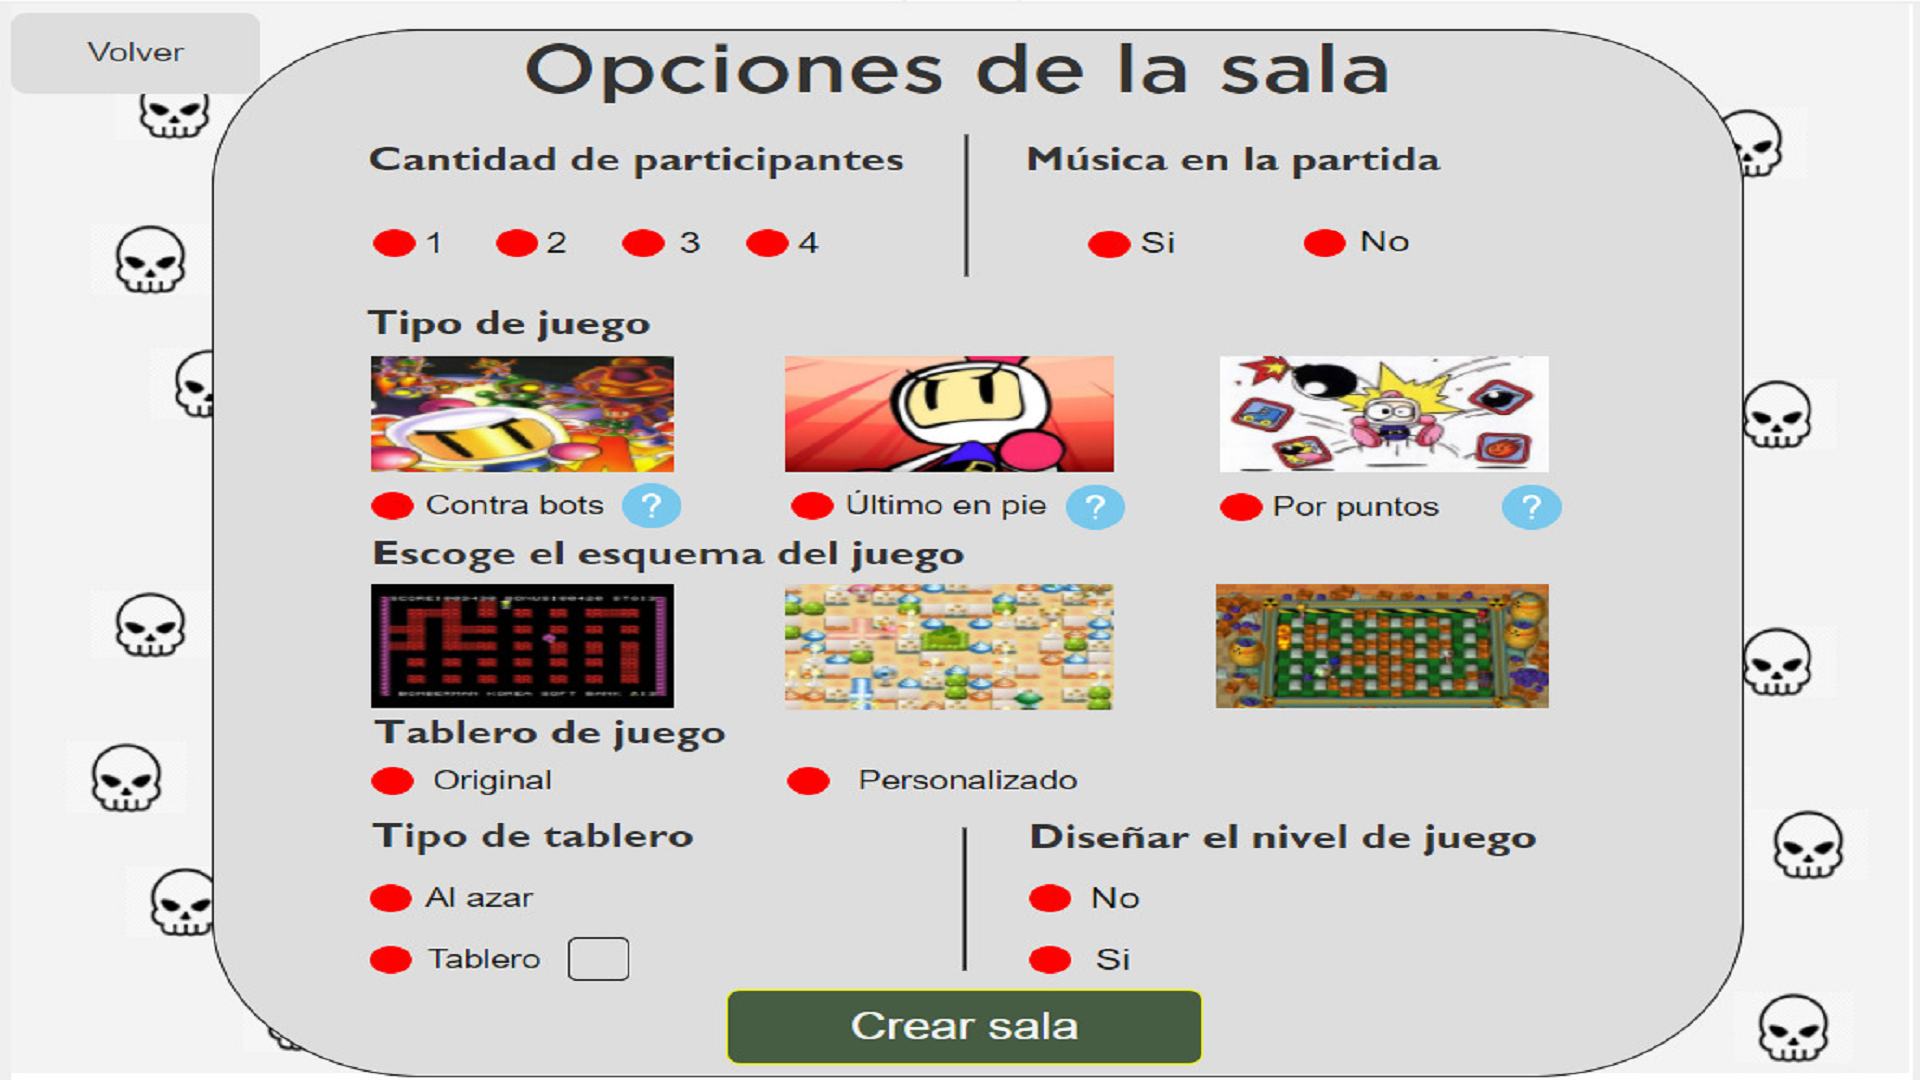
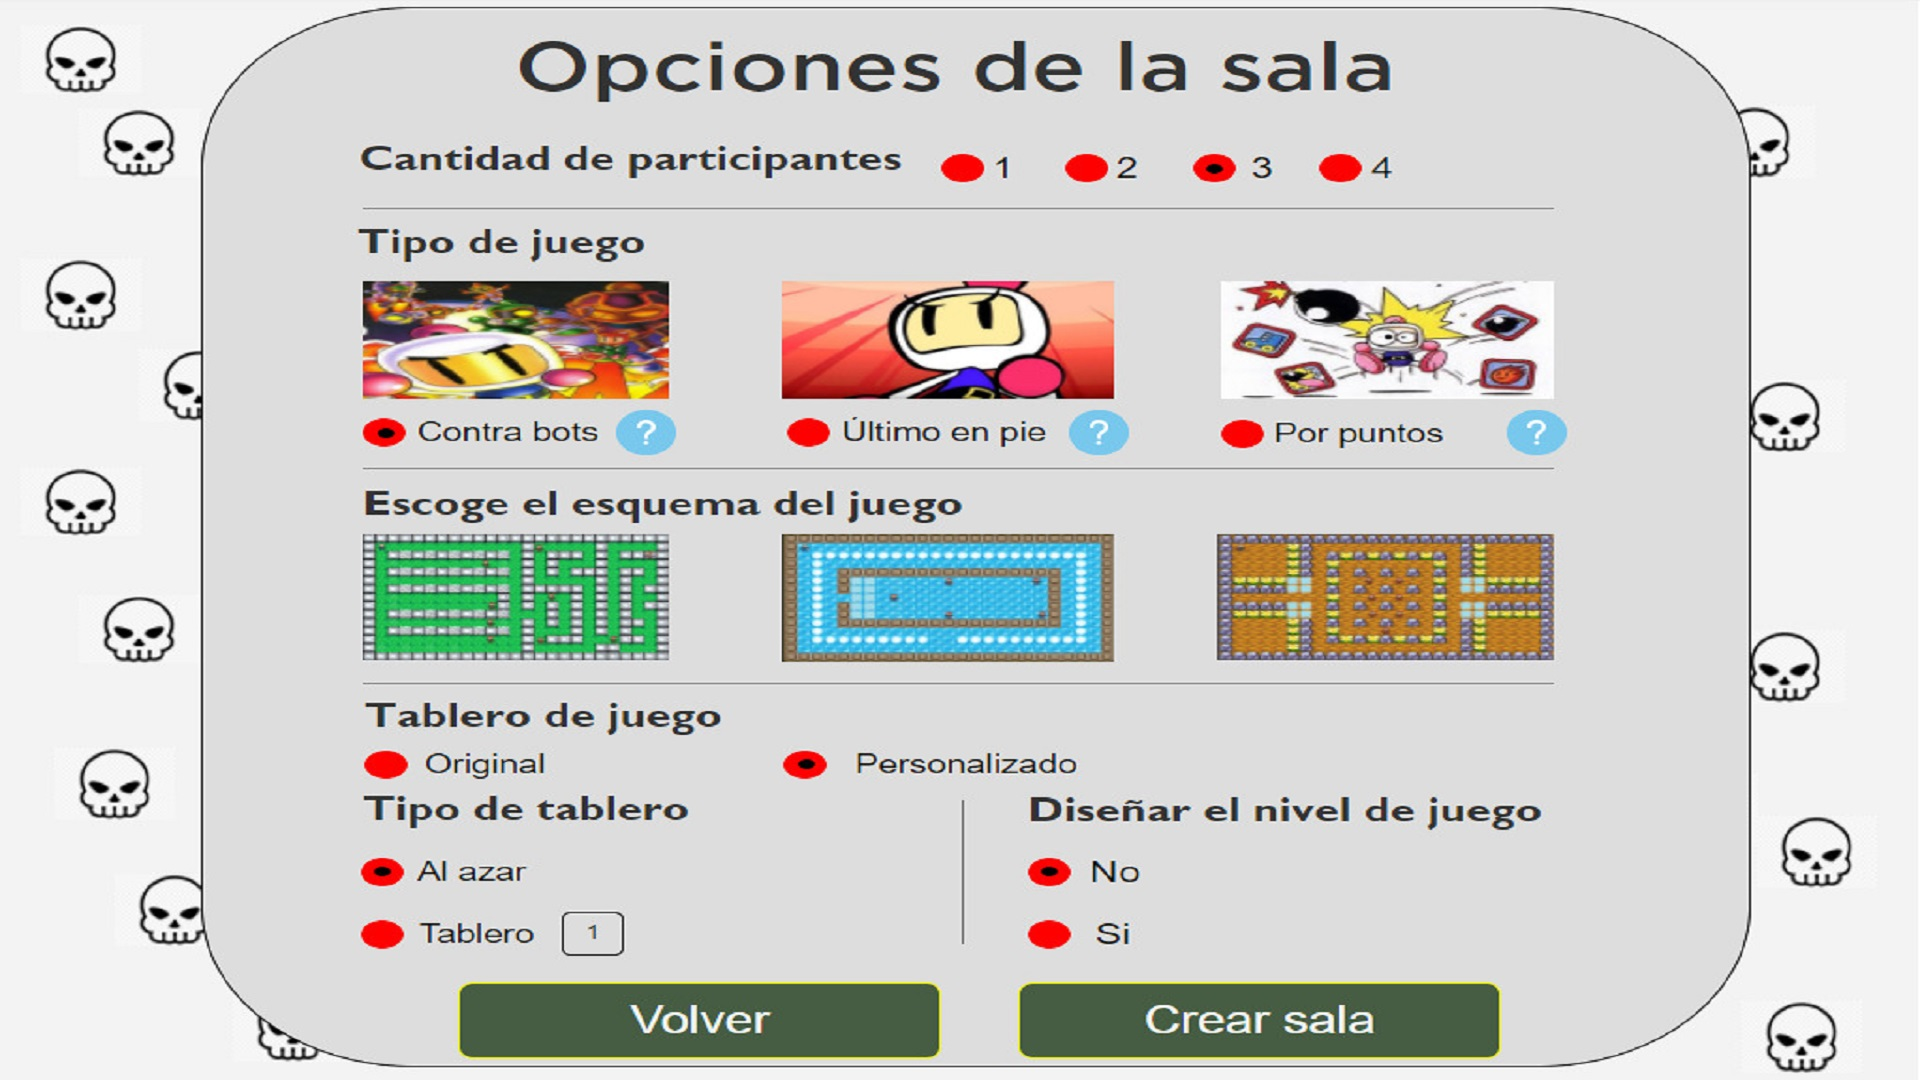
cambios en elementos de pantalla

diff --git a/Game/game.html b/Game/game.html
@@ -8587,10 +8587,10 @@ this.load.image('selectorRect2', 'https://i.ibb.co/98x1jx5/selector-Rect2.png');
 this.load.image('selectorRect3', 'https://i.ibb.co/WfGJs8t/selector-Rect3.png');
 this.load.image('selectorRect4', 'https://i.ibb.co/QjDxyxN/selector-Rect4.png');
 
-                 this.load.image('fondo', 'https://i.ibb.co/5FW9jBX/menu-Opciones.png');
-                 this.load.image('fondo2', 'https://i.ibb.co/mrpgNSH/menu-Opciones-Normal.png')
-                 this.load.image('fondo2mapa2', 'https://i.ibb.co/cNm3JKN/menu-Opciones-Normal2.png')
-                 this.load.image('fondo2mapa3', 'https://i.ibb.co/wQY7mW4/menu-Opciones-Normal3.png')
+                 this.load.image('fondo', 'https://i.ibb.co/FVxvVCz/Menu-Opciones.jpg');
+                 this.load.image('fondo2', 'https://i.ibb.co/2h3cWVJ/Menu-Opciones-Normal.jpg')
+                 this.load.image('fondo2mapa2', 'https://i.ibb.co/ZG5WqLZ/Menu-Opciones-Normal2.jpg')
+                 this.load.image('fondo2mapa3', 'https://i.ibb.co/g3TKdrQ/Menu-Opciones-Normal3.jpg')
                   this.load.image('seleccion', 'https://i.ibb.co/RvhgWwR/seleccioncuad.png');
                   this.load.image('seleccion1P', 'https://i.ibb.co/tQYRBw6/seleccioncuad1.png');
                   this.load.image('seleccion2P', 'https://i.ibb.co/9nvQfzZ/seleccioncuad2.png');
@@ -8681,6 +8681,7 @@ this.ready4 = 0;
  this.tipojuegoSprite = this.physics.add.sprite(413 +413/4, 336, 'seleccion2');
 this.cantidadParticipantesSprite = this.physics.add.sprite(413 +413/4, 336, 'seleccion2');
 this.musicapartidaSprite = this.physics.add.sprite(413 +413/4, 336, 'seleccion2');
+this.musicapartidaSprite.visible = false;
 this.mapanormalSprite =  this.physics.add.sprite(413 +413/4, 336, 'seleccion2');
 this.mapatipoSprite = this.physics.add.sprite(413 +413/4, 336, 'seleccion2');
 this.designerSprite = this.physics.add.sprite(413 +413/4, 336, 'seleccion2');
@@ -8745,7 +8746,7 @@ this.readySprite4.visible = false;
 
 
 
-this.mapaNumeroEditadoString = this.add.text(594, 945, this.mapaNumeroEditado, { fontFamily: '"Arial Black"', fontSize: 24, fill: 'black',});
+this.mapaNumeroEditadoString = this.add.text(594, 925, this.mapaNumeroEditado, { fontFamily: '"Arial Black"', fontSize: 24, fill: 'black',});
 
  this.mapaNumeroEditadoString.visible = false;
 
@@ -11413,56 +11414,56 @@ cursor = "XD";
 if(this.gamemode == 0)
 {
 this.tipojuegoSprite.x = 293 +413/4;
-this.tipojuegoSprite.y = 516;
+this.tipojuegoSprite.y = 436;
 }
 
 if(this.gamemode == 1)
 {
 this.tipojuegoSprite.x = 293 +513;
-this.tipojuegoSprite.y = 516;
+this.tipojuegoSprite.y = 436;
 }
 
 if(this.gamemode == 2)
 {
-this.tipojuegoSprite.x = 353 +913;
-this.tipojuegoSprite.y = 516;
+this.tipojuegoSprite.x = 333 +913;
+this.tipojuegoSprite.y = 436;
 }
 
 if(this.tematica ==1)
 {
 this.tematicaSprite.x =  420 +413/4;
-this.tematicaSprite.y = 132 + 520;
+this.tematicaSprite.y = 132 + 470;
 }
 if(this.tematica ==2)
 {
   this.tematicaSprite.x = 860 +413/4;
-this.tematicaSprite.y = 132 + 520;
+this.tematicaSprite.y = 132 + 470;
 }
 if(this.tematica ==3)
 {
   this.tematicaSprite.x = 1290 +413/4; 
-this.tematicaSprite.y = 132 + 520; 
+this.tematicaSprite.y = 132 + 470; 
 }
 
 if(this.jugadores == 1)
 {
-this.cantidadParticipantesSprite.x = 413;
-this.cantidadParticipantesSprite.y = 236;
+this.cantidadParticipantesSprite.x = 963;
+this.cantidadParticipantesSprite.y = 176;
 }
 if(this.jugadores == 2)
 {
-this.cantidadParticipantesSprite.x = 533;
-this.cantidadParticipantesSprite.y = 236;
+this.cantidadParticipantesSprite.x = 1083;
+this.cantidadParticipantesSprite.y = 176;
 }
 if(this.jugadores == 3)
 {
-this.cantidadParticipantesSprite.x = 653;
-this.cantidadParticipantesSprite.y = 236;
+this.cantidadParticipantesSprite.x = 1213;
+this.cantidadParticipantesSprite.y = 176;
 }
 if(this.jugadores == 4)
 {
-this.cantidadParticipantesSprite.x = 773;
-this.cantidadParticipantesSprite.y = 236;
+this.cantidadParticipantesSprite.x = 1333;
+this.cantidadParticipantesSprite.y = 176;
 }
 if(this.music == 1)
 {
@@ -11480,22 +11481,22 @@ this.musicapartidaSprite.y = 256;
 if(this.seleccionInt ==3)
 {
 
-this.seleccionadoSprite.x = 413;
-this.seleccionadoSprite.y = 236;;
+this.seleccionadoSprite.x = 963;
+this.seleccionadoSprite.y = 176;;
 
 }
 if(this.seleccionInt ==4)
 {
 
-this.seleccionadoSprite.x = 533;;
-this.seleccionadoSprite.y = 236;;
+this.seleccionadoSprite.x = 1083;;
+this.seleccionadoSprite.y = 176;;
 
 }    
 if(this.seleccionInt ==5)
 {
 
-this.seleccionadoSprite.x = 653;
-this.seleccionadoSprite.y = 236;
+this.seleccionadoSprite.x = 1213;
+this.seleccionadoSprite.y = 176;
 
 }    
 
@@ -11503,8 +11504,8 @@ this.seleccionadoSprite.y = 236;
 if(this.seleccionInt ==16)
 {
 
-this.seleccionadoSprite.x = 773;
-this.seleccionadoSprite.y = 236;
+this.seleccionadoSprite.x = 1333;
+this.seleccionadoSprite.y = 176;
 
 }
 
@@ -11512,7 +11513,7 @@ if(this.seleccionInt ==0)
 {
 
 this.seleccionadoSprite.x = 293 +413/4;
-this.seleccionadoSprite.y = 516;
+this.seleccionadoSprite.y = 436;
 
 }    
 
@@ -11521,14 +11522,14 @@ if(this.seleccionInt ==1)
 {
 
 this.seleccionadoSprite.x = 293 +513;
-this.seleccionadoSprite.y = 516;
+this.seleccionadoSprite.y = 436;
 
 }  
 if(this.seleccionInt ==2)
 {
 
-this.seleccionadoSprite.x = 323 +913;
-this.seleccionadoSprite.y = 516;
+this.seleccionadoSprite.x = 333 +913;
+this.seleccionadoSprite.y = 436;
 
 }     
 
@@ -11549,18 +11550,11 @@ this.seleccionadoSprite.y = 256;
 }
 
 
-if(this.seleccionInt ==8)
-{
-
-this.seleccionadoSprite.x = 913 +413/4;
-this.seleccionadoSprite.y = 1020;
-
-}
 
 if(this.seleccionInt ==8)
 {
 
-this.seleccionadoSprite.x = 913 +413/4;
+this.seleccionadoSprite.x = 1113 +413/4;
 this.seleccionadoSprite.y = 1020;
 
 }
@@ -12027,19 +12021,19 @@ if(this.seleccionInt ==19)
 if(this.seleccionInt ==20)
 {
   this.seleccionadoSprite.x = 420 +413/4;
-  this.seleccionadoSprite.y = 132 + 520;
+  this.seleccionadoSprite.y = 132 + 470;
 
 }
 if(this.seleccionInt ==21)
 {
   this.seleccionadoSprite.x = 860 +413/4;
-  this.seleccionadoSprite.y = 132 + 520;
+  this.seleccionadoSprite.y = 132 + 470;
 }
 
 if(this.seleccionInt ==22)
 {
   this.seleccionadoSprite.x = 1290 +413/4;
-  this.seleccionadoSprite.y = 132 + 520;
+  this.seleccionadoSprite.y = 132 + 470;
 }
 //SELECCIONAR MODO DIBUJO
 
@@ -12139,45 +12133,45 @@ if(this.mapaNormalNumero ==3)
 if(this.mapaTipo ==1)
 {
   this.mapatipoSprite.x = 290 +413/4;
-  this.mapatipoSprite.y = 352 + 550;
+  this.mapatipoSprite.y = 332 + 550;
 }
 if(this.seleccionInt ==23)
 {
   this.seleccionadoSprite.x = 290 +413/4;
-  this.seleccionadoSprite.y = 352 + 550;
+  this.seleccionadoSprite.y = 332 + 550;
 
 }
 if(this.mapaTipo ==2)
 {
   this.mapatipoSprite.x = 290 +413/4;
-  this.mapatipoSprite.y = 406 + 550;
+  this.mapatipoSprite.y = 386 + 550;
 }
 if(this.seleccionInt ==24)
 {
   this.seleccionadoSprite.x = 950 +413/4;
-  this.seleccionadoSprite.y = 352 + 550;
+  this.seleccionadoSprite.y = 332 + 550;
 
 }
 if(this.designerMode==0)
 {
    this.designerSprite.x = 950 +413/4;
-  this.designerSprite.y = 352 + 550;
+  this.designerSprite.y = 332 + 550;
 }
 if(this.seleccionInt ==25)
 {
   this.seleccionadoSprite.x = 290 +413/4;
-  this.seleccionadoSprite.y = 406 + 550;
+  this.seleccionadoSprite.y = 386 + 550;
 
 }
 if(this.designerMode==1)
 {
   this.designerSprite.x = 950 +413/4;
-  this.designerSprite.y = 406 + 550;
+  this.designerSprite.y = 386 + 550;
 }
 if(this.seleccionInt ==26)
 {
   this.seleccionadoSprite.x = 950 +413/4;
-  this.seleccionadoSprite.y = 406 + 550;
+  this.seleccionadoSprite.y = 386 + 550;
 
 }
 
